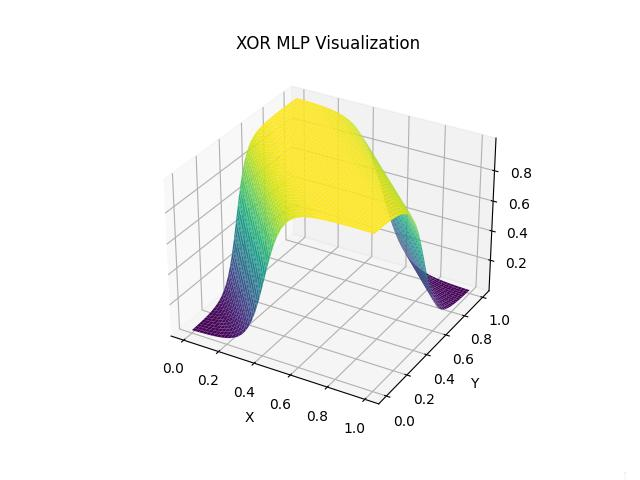
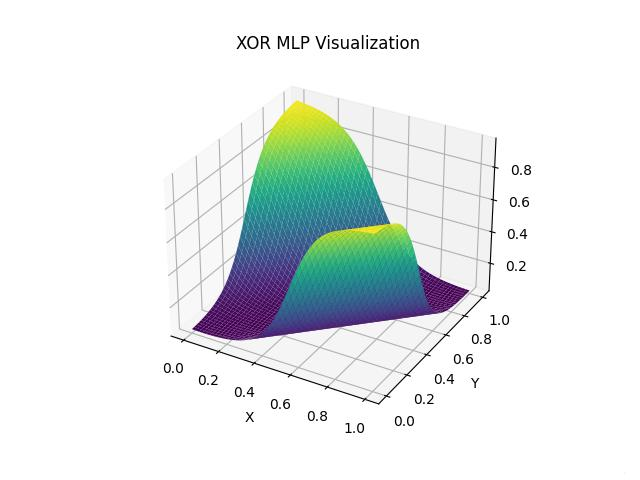
Adjust MLP hyperparameters, new prettier plot

diff --git a/cudagrad/mlp.py b/cudagrad/mlp.py
@@ -46,8 +46,8 @@ if __name__ == "__main__":
     inputs = [[0, 0], [0, 1], [1, 0], [1, 1]]
     targets = [0, 1, 1, 0]
 
-    EPOCHS = 25000
-    lr = 0.1
+    EPOCHS = 5000
+    lr = 0.05
     epochs = []
     losses = []
     model = MLP()
